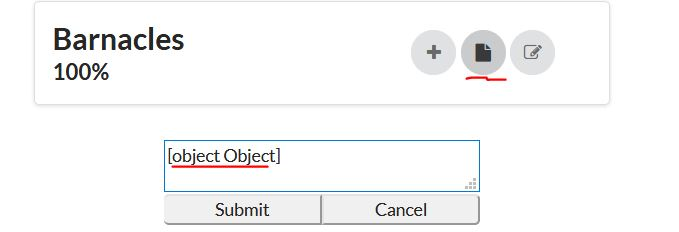
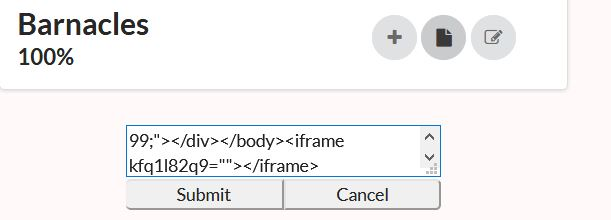
Fixed bug with pasting and updated pasting image

diff --git a/public/js/app.js b/public/js/app.js
@@ -265,7 +265,7 @@ class Subject extends React.Component {
   handleSubmitHTML = (attrs) => {
     const createBulkAssignments = this.createBulkAssignments; // Needs to be defned because 'this' changes in jquery scope :(
     let assignment_attrs = [];
-    const assignment_list = $('#grades_summary tr', attrs.htmlText.html).filter('.student_assignment').filter('.editable');
+    const assignment_list = $('#grades_summary tr', attrs.htmlText).filter('.student_assignment').filter('.editable');
     assignment_list.each(function(index){
       const title = $(this).find('th').find('a').text();
       let points_earned = $(this).find('.grade').text().split(/\s+/);
@@ -353,7 +353,7 @@ class ImportHTMLForm extends React.Component {
   changeTextArea = (e) => {
     const html = e.target.value;
     this.setState({
-      htmlText: {html}
+      htmlText: html
     });
   };
 
